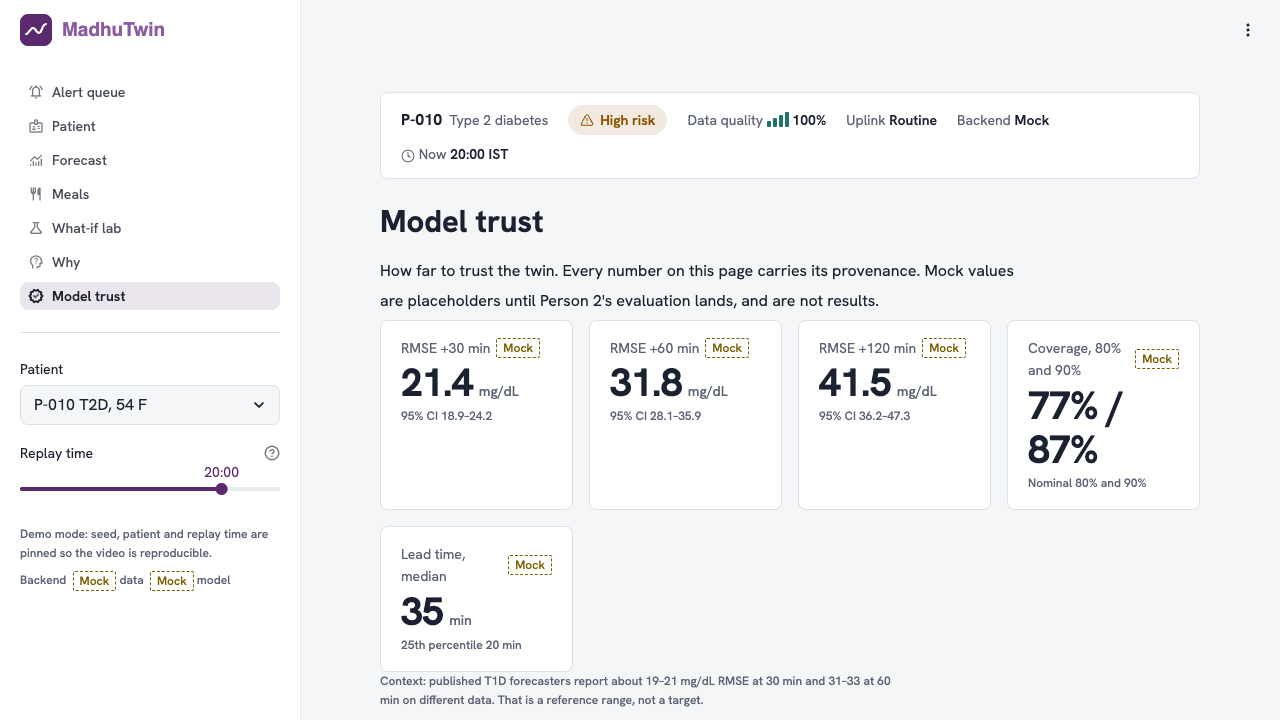
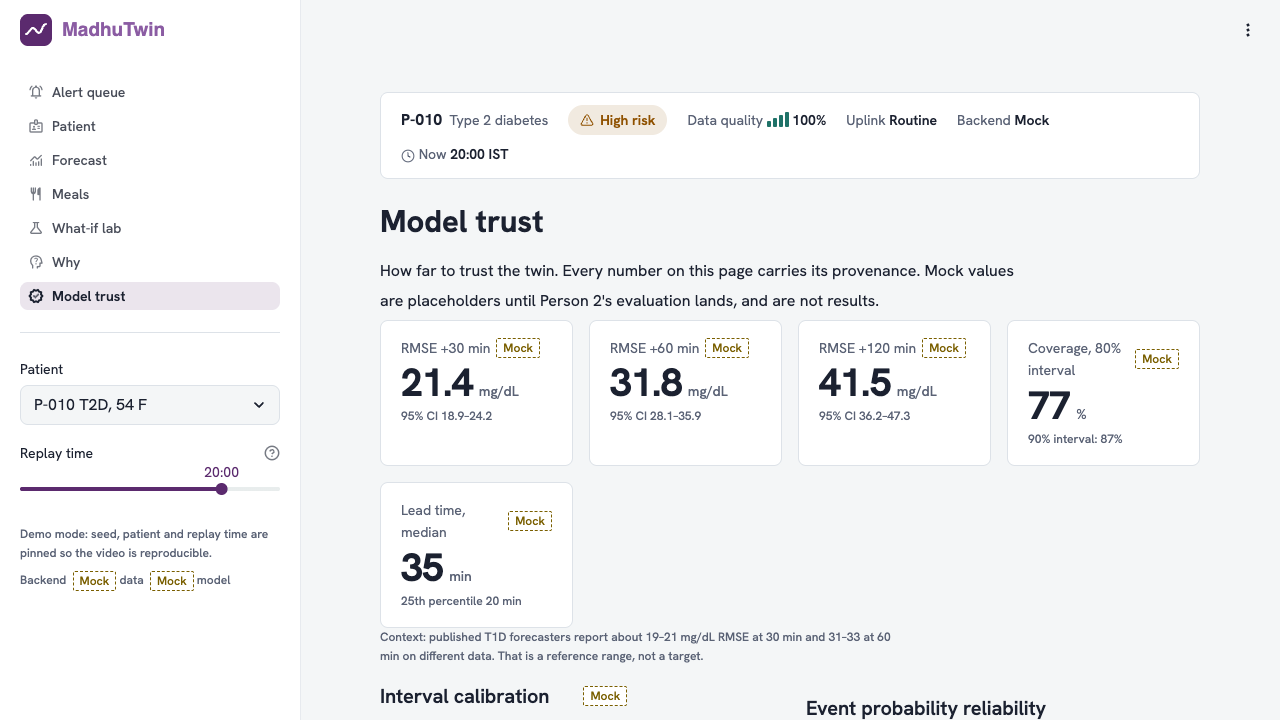
Finish design pass: live theme-switch check + 28 screenshots (Playwright, local Chrome), 1280px layout fixes, readout restructure, Model trust Figma frame

diff --git a/scripts/ui_screenshots.py b/scripts/ui_screenshots.py
@@ -18,8 +18,15 @@ from playwright.sync_api import Page, sync_playwright
 ROOT = Path(__file__).resolve().parents[1]
 OUT = ROOT / "docs" / "figures" / "ui"
 CHROME = "/Applications/Google Chrome.app/Contents/MacOS/Google Chrome"
-PAGES = [("alert_queue", ""), ("patient", "patient_card"), ("forecast", "forecast_view"), ("meals", "meal_timeline"),
-         ("whatif", "whatif_lab"), ("why", "explain_panel"), ("trust", "trust_page")]
+PAGES = [
+    ("alert_queue", ""),
+    ("patient", "patient_card"),
+    ("forecast", "forecast_view"),
+    ("meals", "meal_timeline"),
+    ("whatif", "whatif_lab"),
+    ("why", "explain_panel"),
+    ("trust", "trust_page"),
+]
 SIZES = [(1440, 900), (1280, 720)]
 
 
@@ -57,7 +64,8 @@ def theme_check(base: str, browser) -> list[str]:
     page = ctx.new_page()
 
     def probe() -> dict:
-        return page.evaluate("""() => {
+        return page.evaluate(
+            """() => {
             const q = s => document.querySelector(s);
             const fill = el => el ? getComputedStyle(el).fill : null;
             return {
@@ -67,7 +75,8 @@ def theme_check(base: str, browser) -> list[str]:
               tick: fill(q('.js-plotly-plot .xtick text')),
               grid: q('.js-plotly-plot .gridlayer path') ? getComputedStyle(q('.js-plotly-plot .gridlayer path')).stroke : null,
             };
-        }""")
+        }"""
+        )
 
     for path, label in (("forecast_view", "forecast"), ("whatif_lab", "what-if")):
         page.emulate_media(color_scheme="light")

diff --git a/dashboard/pages/patient_card.py b/dashboard/pages/patient_card.py
@@ -58,13 +58,13 @@ def render() -> None:
             kit.Readout("HbA1c", f"{p.hba1c:.1f}", "%", LABS[0][4](p.hba1c, p.sex).capitalize(), badge=pb("hba1c")),
             kit.Readout("BMI", f"{p.bmi:.1f}", "kg/m²", LABS[2][4](p.bmi, p.sex).capitalize(), badge=pb("bmi")),
             kit.Readout(
-                "Twin status",
-                "Cold start" if cold else "Personalised",
-                "",
+                "Twin history",
+                f"{days:g}" if days is not None else "n/a",
+                "days of CGM" if days is not None else "",
                 (
-                    f"{days:g} days of CGM" + (f", under {COLD_START_DAYS}: wider uncertainty" if cold else "")
-                    if days is not None
-                    else "History length not provided"
+                    f"Cold start: under {COLD_START_DAYS} days, wider uncertainty"
+                    if cold
+                    else ("Personalised twin" if days is not None else "History length not provided")
                 ),
                 foot_tone="warn" if cold else None,
             ),

diff --git a/dashboard/pages/whatif_lab.py b/dashboard/pages/whatif_lab.py
@@ -151,7 +151,7 @@ def render() -> None:
                 width="stretch",
                 column_config={
                     "food": st.column_config.SelectboxColumn(
-                        "Food", options=sorted(label_to_food), required=True, width="medium"
+                        "Food", options=sorted(label_to_food), required=True, width=180
                     ),
                     "portion": st.column_config.NumberColumn(
                         "Portion",
@@ -160,7 +160,7 @@ def render() -> None:
                         step=0.25,
                         required=True,
                         help="In katori, roti (piece) or plate",
-                        width="small",
+                        width=72,
                     ),
                 },
             )

diff --git a/dashboard/components/kit.py b/dashboard/components/kit.py
@@ -288,8 +288,10 @@ def triage_table(rows: Sequence[dict]) -> str:
             f"<td>{esc(r['event'])}</td><td>{prob}</td><td{conf_cls}>{conf}</td><td>{lead}</td>"
             f"<td{dq_cls}>{dq}</td><td class='muted' style='margin:0'>{esc(r['age'])}</td></tr>"
         )
-    return (f'<div class="mt-table-wrap" tabindex="0" role="region" aria-label="Alert queue table">'
-            f'<table class="mt-table"><thead><tr>{head}</tr></thead><tbody>{"".join(body)}</tbody></table></div>')
+    return (
+        f'<div class="mt-table-wrap" tabindex="0" role="region" aria-label="Alert queue table">'
+        f'<table class="mt-table"><thead><tr>{head}</tr></thead><tbody>{"".join(body)}</tbody></table></div>'
+    )
 
 
 def meal_chips(m) -> str:

diff --git a/dashboard/pages/trust_page.py b/dashboard/pages/trust_page.py
@@ -70,10 +70,10 @@ def render() -> None:
         ]
         items.append(
             kit.Readout(
-                "Coverage, 80% and 90%",
-                f"{cov.get('80', 0):.0%} / {cov.get('90', 0):.0%}",
-                "",
-                "Nominal 80% and 90%",
+                "Coverage, 80% interval",
+                f"{cov.get('80', 0) * 100:.0f}",
+                "%",
+                f"90% interval: {cov.get('90', 0):.0%}",
                 badge=_badge(slbl),
             )
         )

diff --git a/README.md b/README.md
@@ -14,7 +14,7 @@
 | **Licence** | [Apache-2.0](LICENSE) (includes a patent grant, which suits health code) |
 | **Repository name** | Must be **`TeamName_CollegeName`** at submission (brief). It is developed as `MadhuTwin_TeamName/`. All paths are relative, so renaming is safe ([ADR-001](docs/decisions.md)). |
 
-![Alert queue](docs/figures/screenshot_alert_queue.jpg)
+![Alert queue](docs/figures/ui/alert_queue_light_1440.png)
 
 ---
 
@@ -57,7 +57,7 @@ Our 150–250-item Indian meal mapping is *table stakes, done openly*, not the s
 | F9 | FHIR R4B export (Patient, CGM Observations with LOINC 99504-3, RiskAssessment, forecast Observation) and a privacy-boundary diagram | `src/serving/fhir_export.py`, `docs/samples/fhir_bundle_example.json`, `docs/privacy_boundary.pdf` |
 | | Every number carries a provenance label: `REAL` / `SYNTHETIC` / `MOCK` / `MODEL ESTIMATE` | `dashboard/components/common.py` |
 
-![What-if lab](docs/figures/screenshot_whatif_lab.jpg)
+![What-if lab](docs/figures/ui/whatif_light_1440.png)
 
 ## Quickstart
 
@@ -93,6 +93,7 @@ The interface is a calm clinical instrument with one bold element, the **Twin Cu
   - `dashboard/components/kit.py` holds the components.
   - `dashboard/components/twin_morph.py` holds the What-if morph.
 - **Accessibility:** light and dark themes, both WCAG AA (`python scripts/check_contrast.py`). Visible focus and reduced-motion support.
+- **Screenshots:** every page at 1440×900 and 1280×720 in both themes is in `docs/figures/ui/` (`python scripts/ui_screenshots.py`).
 - **Further reading:** [`docs/design_notes.md`](docs/design_notes.md) (what we tried and rejected) and [`docs/design_system_rules.md`](docs/design_system_rules.md).
 
 ## Architecture

diff --git a/docs/design_notes.md b/docs/design_notes.md
@@ -5,7 +5,7 @@ Speaker notes for the two-minute "design choices" moment in the video, and the r
 **Figma source of truth:** [MadhuTwin — Jamun UI](https://www.figma.com/design/lGkCcYYcV1PHiNWpD1pOjG). It has three pages:
 - *Foundations*: variables `Jamun / light`, `Jamun / dark` and `Jamun / size`, plus 11 text styles.
 - *Components*: Lucide icon set, TierBadge, ProvBadge, Button, PresetSegment, NavItem, VitalReadout.
-- *Screens*: Alert queue, Forecast (light and dark), What-if lab, Why.
+- *Screens*: Alert queue, Forecast (light and dark), What-if lab, Why, Model trust.
 
 Code tokens live in `dashboard/theme/tokens.py`.
 
@@ -67,3 +67,8 @@ In the What-if lab, changing a lever **morphs** the dashed magenta scenario curv
 - **Widget chrome:** the multiselect chips, slider handles and data editor follow Streamlit's components, themed but not redrawn. That's acceptable for a PoC.
 - **Sidebar navigation:** styled with CSS on `data-testid` hooks rather than built by us.
 - **Post-submission proposal:** a React + FastAPI front end. `src/serving/backend.py` already isolates the contract, so the migration would touch no model or data code. We are not starting it before the summit.
+
+## Visual QA
+- `python scripts/ui_screenshots.py` captures every page at 1440×900 and 1280×720 in light and dark (28 shots in `docs/figures/ui/`).
+- It drives the locally installed Chrome through Playwright, so no browser download is needed.
+- It also flips `prefers-color-scheme` mid-session and fails unless the page, the Plotly chart chrome and the morph iframe all change colour. The last run passed: the tick fill went from rgb(90, 98, 117) to rgb(163, 170, 184) on the Forecast page and in the What-if iframe.

diff --git a/docs/demo_script.md b/docs/demo_script.md
@@ -69,10 +69,10 @@ MADHUTWIN_DEMO=1 MADHUTWIN_BACKEND=mock streamlit run dashboard/app.py   # or MA
 ---
 
 ## Shot list (B-roll / screenshots)
-1. Alert queue, full page (`docs/figures/screenshot_alert_queue.jpg`)
+1. Alert queue, full page (`docs/figures/ui/alert_queue_light_1440.png`)
 2. Replay slider scrubbing 13:30 → 20:00 (screen recording)
 3. Forecast page with bands and meal markers
-4. What-if Combined, side-by-side (`docs/figures/screenshot_whatif_lab.jpg`)
+4. What-if Combined, side-by-side (`docs/figures/ui/whatif_light_1440.png`)
 5. What-if overlay toggle
 6. Why panel: attribution bars and reliability table
 7. FHIR bundle expander
